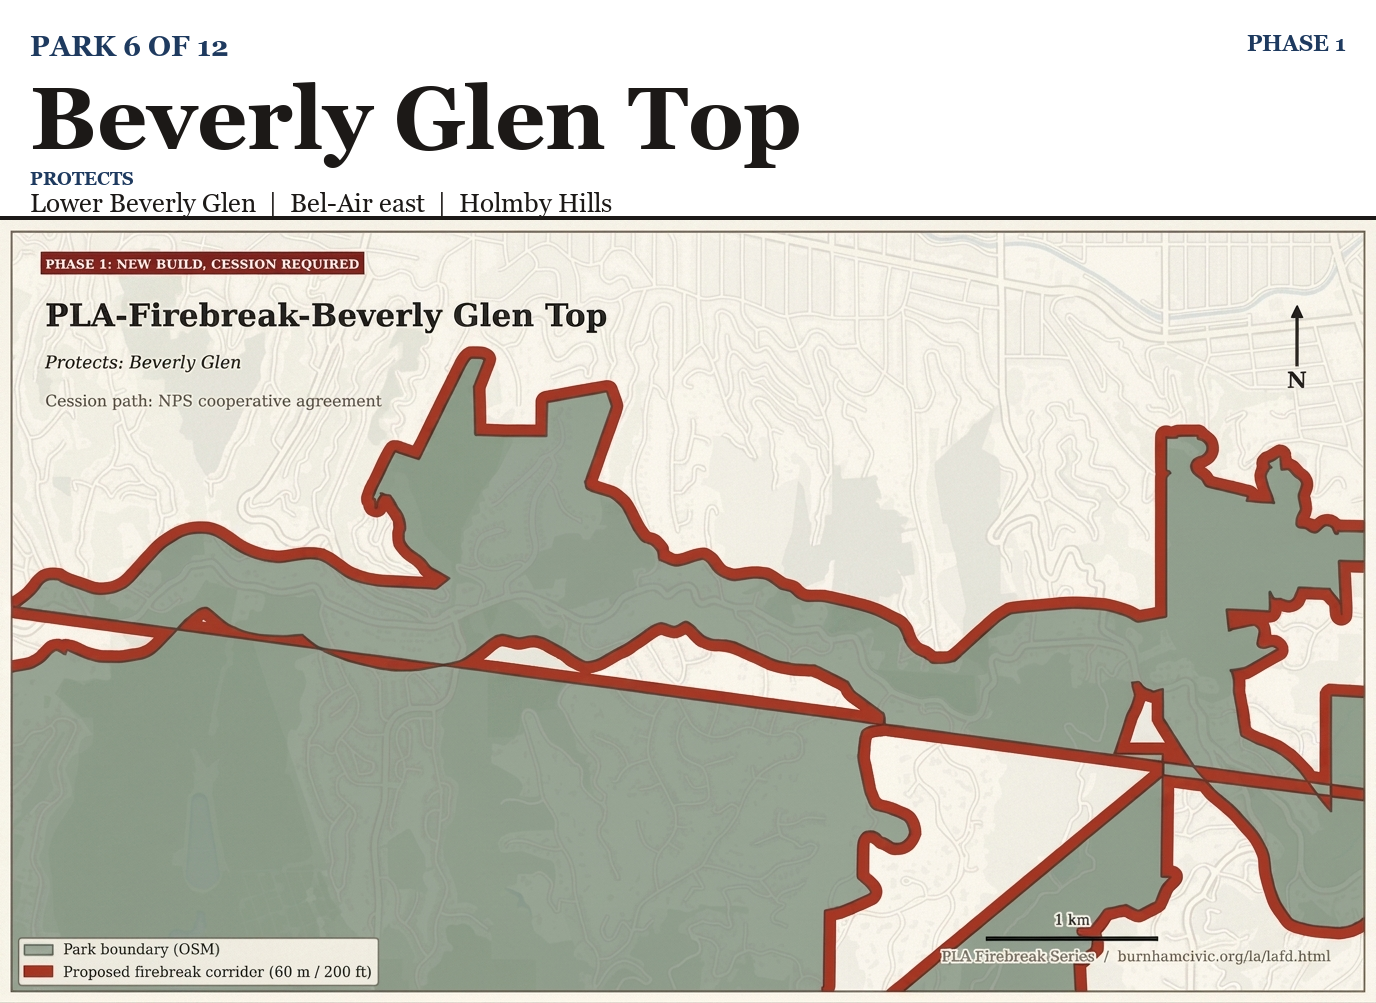
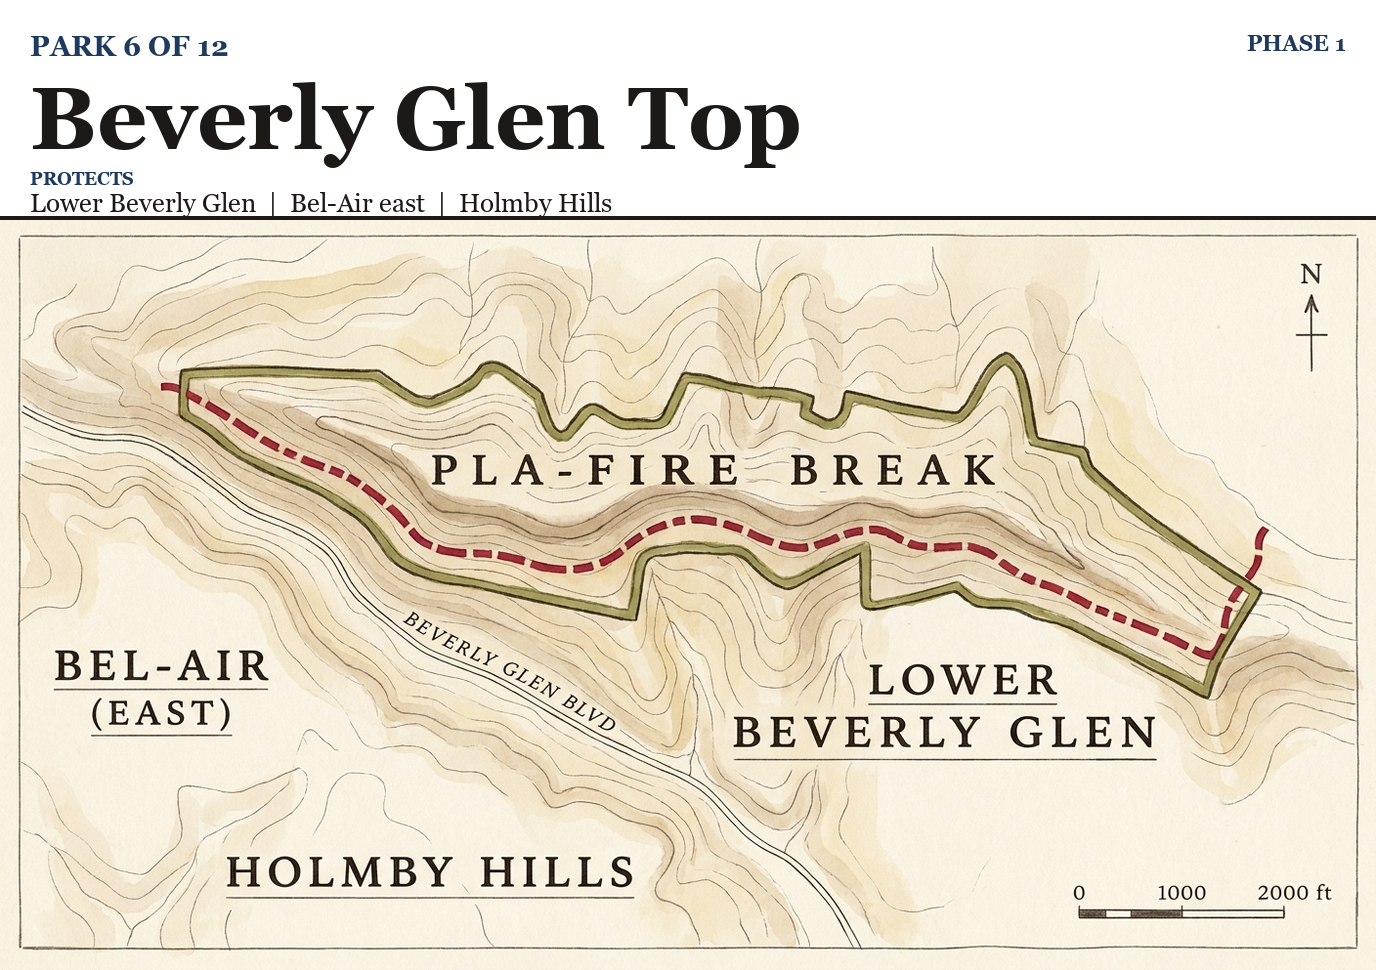
Regenerate park maps with neighborhoods as visual hero
Previous maps had park boundary + firebreak corridor on accurate OSM topography but neighborhood labels were small and unreadable at thumbnail size. New maps generated with Gemini using a clean Edward Tufte cartographic style: warm cream paper background, sepia topographic shading, large bold serif neighborhood labels at their approximate positions on the map, park boundary as outlined polygon, firebreak corridor as crimson dashed line at the residential interface. Top banner stamp preserved for park N + phase tag.

diff --git a/_assets/firebreak/gemini_park_maps.py b/_assets/firebreak/gemini_park_maps.py
@@ -1,0 +1,172 @@
+"""Generate clean cartographic park maps with neighborhood labels prominent.
+
+Each prompt specifies the park's rough geographic location, the named
+neighborhoods to label at approximate positions, and a clean cartographic
+style with large readable typography. The park boundary and firebreak
+corridor are shown but the neighborhoods are the visual hero.
+"""
+import json, os, base64, sys, time, urllib.request, urllib.error
+
+API_KEY = json.load(open(os.path.expanduser("~/.claude/connectors/gemini/config.json")))["api_key"]
+MODEL = "gemini-3-pro-image-preview"
+ENDPOINT = f"https://generativelanguage.googleapis.com/v1beta/models/{MODEL}:generateContent?key={API_KEY}"
+HERE = os.path.dirname(os.path.abspath(__file__))
+RAW_DIR = os.path.join(HERE, "gemini-raw")
+os.makedirs(RAW_DIR, exist_ok=True)
+
+STYLE_BASE = (
+    "Clean Edward Tufte-style cartographic illustration of a Los Angeles ridgeline park, hand-drawn ink "
+    "and pale watercolor wash on warm cream paper background. Minimal ornament, maximal clarity. "
+    "Top-down map view (NOT a perspective view). Soft sepia and pale ochre topographic shading "
+    "showing the canyons and ridgelines. North arrow at top right. Scale bar at bottom right. "
+    "All neighborhood labels in BOLD LARGE serif typography (Georgia or Caslon style), set in "
+    "generous letter-spacing. Each labeled neighborhood gets a thin underline. The park boundary "
+    "drawn as a thick warm-green outlined polygon, labeled in serif 'PLA-Firebreak'. The proposed "
+    "firebreak corridor drawn as a thick crimson dashed line at the residential interface. "
+    "The whole map should read clearly even at thumbnail size. No people, no buildings, no roads "
+    "drawn in detail - only neighborhood-name labels at their approximate positions and the "
+    "topographic shading. Flat 2D cartographic style, NOT a satellite or aerial photo."
+)
+
+PARKS = [
+    ("park-01-topanga-crest.png",
+     "Subject: Topanga Crest park, Santa Monica Mountains ridgeline above Pacific Palisades. "
+     "Label these neighborhoods at their approximate positions on the map: 'PACIFIC PALISADES' "
+     "south of the ridge in large bold serif, 'SUNSET MESA' southwest in large serif, 'CASTELLAMMARE' "
+     "west on the coastal bluff. Park boundary drawn at the ridgeline center. Firebreak corridor drawn "
+     "along the southern park boundary where it meets the residential edge. Pacific Ocean visible at "
+     "the southwest corner labeled 'PACIFIC OCEAN' in italic serif."),
+
+    ("park-02-sullivan-canyon.png",
+     "Subject: Sullivan Canyon Top park, ridgeline north of Brentwood. "
+     "Label these neighborhoods at their approximate positions on the map: 'BRENTWOOD' south of the "
+     "ridge in large bold serif, 'BRENTWOOD PARK' southeast in serif, 'KENTER CANYON' east in serif. "
+     "Park boundary at the ridgeline center. Firebreak corridor along the southern park boundary "
+     "facing the residential edge. The 405 freeway corridor labeled 'I-405' in small italic at far east."),
+
+    ("park-03-mandeville-ridge.png",
+     "Subject: Mandeville Ridge park, ridge above Mandeville Canyon. "
+     "Label these neighborhoods at their approximate positions on the map: 'MANDEVILLE CANYON' as a "
+     "long narrow band running south from the ridge, the canyon road shown as a single line. "
+     "'BRENTWOOD' labeled to the southeast. Park boundary at the ridgeline. Firebreak corridor along "
+     "the residential interface. Annotation: 'ONE ROAD, 5 MILES DEEP' in small caps near the canyon."),
+
+    ("park-04-sepulveda-crown.png",
+     "Subject: Sepulveda Crown park, Santa Monica Mountains crest east of the 405 freeway. "
+     "Label these neighborhoods at their approximate positions on the map: 'BEL-AIR (EAST)' south "
+     "of the ridge in large bold serif, 'CASIANO' southeast in serif, 'ROSCOMARE' east in serif, "
+     "'GETTY CENTER' north in serif. Park boundary at the ridge. Firebreak corridor along the "
+     "residential side. The 405 freeway labeled 'I-405' as a thick gray line at the western edge."),
+
+    ("park-05-stone-canyon.png",
+     "Subject: Stone Canyon park, north end of Stone Canyon above the Stone Canyon Reservoir. "
+     "Label these neighborhoods at their approximate positions: 'BEL-AIR (EAST)' south of the ridge "
+     "in large bold serif. Stone Canyon Reservoir labeled 'STONE CANYON RESERVOIR' as a blue oval "
+     "at the south. Park boundary at the canyon-head ridge. Annotation in small caps: '1961 BEL "
+     "AIR FIRE IGNITION 8:15 AM NOV 6' marked with a small flame symbol at the canyon north end."),
+
+    ("park-06-beverly-glen.png",
+     "Subject: Beverly Glen Top park, ridge above Beverly Glen Boulevard. "
+     "Label neighborhoods: 'LOWER BEVERLY GLEN' south of ridge in large bold serif, "
+     "'BEL-AIR (EAST)' southwest, 'HOLMBY HILLS' south. Beverly Glen Boulevard shown as a single "
+     "thin line running through the canyon labeled 'BEVERLY GLEN BLVD' in small italic. "
+     "Park boundary at the ridgeline."),
+
+    ("park-07-fryman-upper.png",
+     "Subject: Fryman Upper park, Hollywood Hills ridge between San Fernando Valley and the city. "
+     "Label these neighborhoods: 'STUDIO CITY' north of the ridge in large bold serif, "
+     "'SHERMAN OAKS (EAST)' northwest in large bold serif. Mulholland Drive shown as a thin "
+     "line along the ridge labeled 'MULHOLLAND DRIVE' in small italic. Park boundary at the ridge. "
+     "Firebreak corridor on the north (Valley) side. Annotation in small caps: 'CROSS MOUNTAIN "
+     "TRAIL CORRIDOR' along the spine."),
+
+    ("park-08-coldwater-canyon.png",
+     "Subject: Coldwater Canyon park, Hollywood Hills above Coldwater Canyon Drive. "
+     "Label neighborhoods: 'STUDIO CITY (SOUTH)' north of the ridge in large bold serif, "
+     "'BEVERLY HILLS (NORTH SLOPES)' south in large bold serif, 'BENEDICT CANYON' southeast in serif. "
+     "Coldwater Canyon Drive shown as a thin line through the canyon labeled in small italic. "
+     "Annotation: 'TREEPEOPLE since 1977' in small caps within the park boundary."),
+
+    ("park-09-runyon-canyon.png",
+     "Subject: Runyon Canyon park, Hollywood Hills directly above Hollywood Boulevard. "
+     "Label neighborhoods: 'HOLLYWOOD' south of ridge in large bold serif, 'WEST HOLLYWOOD' "
+     "southwest in serif, 'SUNSET STRIP' south in serif. Hollywood Boulevard labeled "
+     "'HOLLYWOOD BLVD' as a thin line at the south. Park boundary at the ridge. Annotation in "
+     "small caps: 'JAN 2025 SUNSET FIRE 43 ACRES' marked with small flame near Solar/Astral Drive."),
+
+    ("park-10-cahuenga-peak.png",
+     "Subject: Cahuenga Peak in Griffith Park, the highest point at 1,820 ft. "
+     "Label neighborhoods: 'HOLLYWOOD (NORTH SLOPE)' south of peak in large bold serif, "
+     "'LAKE HOLLYWOOD' east as a labeled blue oval reservoir, 'TOLUCA LAKE' north in serif. "
+     "The Hollywood Sign shown as the simple letters 'HOLLYWOOD' in white block typography near the "
+     "peak. Park boundary outlines Griffith Park's western lobe. Peak elevation labeled '1,820 FT'."),
+
+    ("park-11-will-rogers-ridge.png",
+     "Subject: Will Rogers Ridge park, the ridge above Pacific Palisades. "
+     "Label neighborhoods: 'PACIFIC PALISADES (EAST)' south of the ridge in large bold serif, the "
+     "label area shaded faint amber to indicate the 2025 fire footprint. Annotation in small caps: "
+     "'99.5% BURNED 2025' across the park area. Park boundary at the ridgeline. Firebreak corridor "
+     "on the southern park boundary. Will Rogers Ranch House shown as a small structure symbol "
+     "labeled 'RANCH HOUSE (DESTROYED 2025)'."),
+
+    ("park-12-wilacre.png",
+     "Subject: Wilacre park, 128 acres on north face of Santa Monica Mountains, MRCA-owned, "
+     "demonstration project. "
+     "Label neighborhoods: 'STUDIO CITY' north of the ridge in large bold serif, "
+     "'SHERMAN OAKS (EAST)' northwest in large bold serif. Park boundary outlines the 128-acre "
+     "parcel clearly. The Betty B. Dearing Cross Mountain Trail shown as a dashed crimson line "
+     "running through the park labeled 'BETTY B. DEARING TRAIL' in small italic. "
+     "Annotation in bold small caps: 'PHASE 0 DEMONSTRATION CORRIDOR' across the bottom. "
+     "Connecting parks shown as faint outlines to the east labeled 'COLDWATER', 'FRYMAN', "
+     "'FRANKLIN CANYON'."),
+]
+
+
+def gen(prompt: str, out_path: str) -> bool:
+    body = {
+        "contents": [{"role": "user", "parts": [{"text": prompt}]}],
+        "generationConfig": {"responseModalities": ["IMAGE"]},
+    }
+    req = urllib.request.Request(
+        ENDPOINT,
+        data=json.dumps(body).encode("utf-8"),
+        headers={"Content-Type": "application/json"},
+        method="POST",
+    )
+    try:
+        with urllib.request.urlopen(req, timeout=180) as r:
+            resp = json.loads(r.read())
+    except urllib.error.HTTPError as e:
+        print(f"  HTTP {e.code}: {e.read()[:300].decode('utf-8','replace')}")
+        return False
+    except Exception as e:
+        print(f"  ERR: {e}")
+        return False
+    cands = resp.get("candidates", [])
+    for c in cands:
+        for part in c.get("content", {}).get("parts", []):
+            inline = part.get("inlineData") or part.get("inline_data")
+            if inline and inline.get("data"):
+                img_bytes = base64.b64decode(inline["data"])
+                with open(out_path, "wb") as f:
+                    f.write(img_bytes)
+                return True
+    print(f"  no image in response: {json.dumps(resp)[:300]}")
+    return False
+
+
+if __name__ == "__main__":
+    only = sys.argv[1] if len(sys.argv) > 1 else None
+    success = 0
+    for fname, prompt_park in PARKS:
+        if only and only not in fname:
+            continue
+        out_path = os.path.join(RAW_DIR, fname)
+        full_prompt = STYLE_BASE + "\n\n" + prompt_park
+        print(f"GEN {fname}...")
+        ok = gen(full_prompt, out_path)
+        if ok:
+            print(f"  OK {os.path.getsize(out_path)} bytes")
+            success += 1
+        time.sleep(2)
+    print(f"\n{success}/{len(PARKS)} succeeded")
